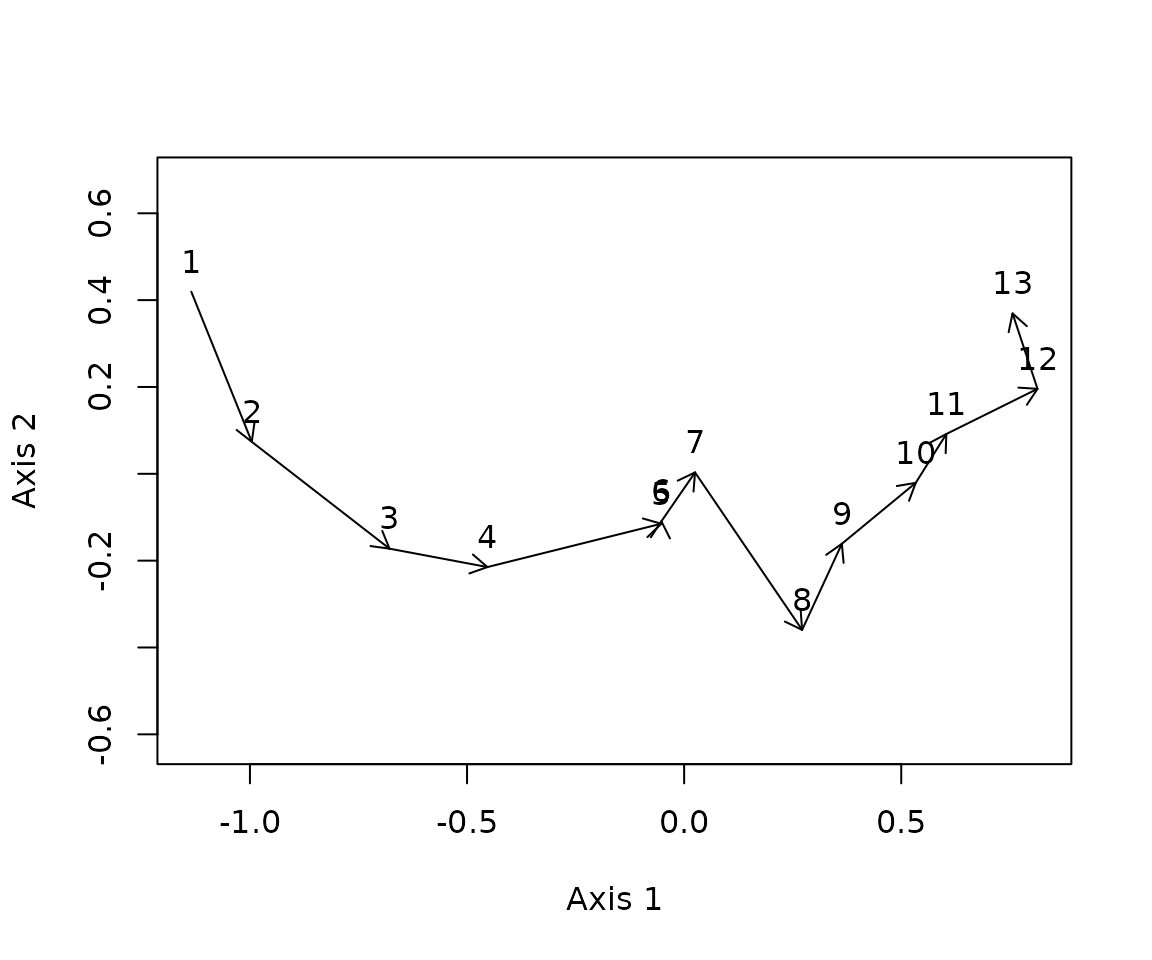
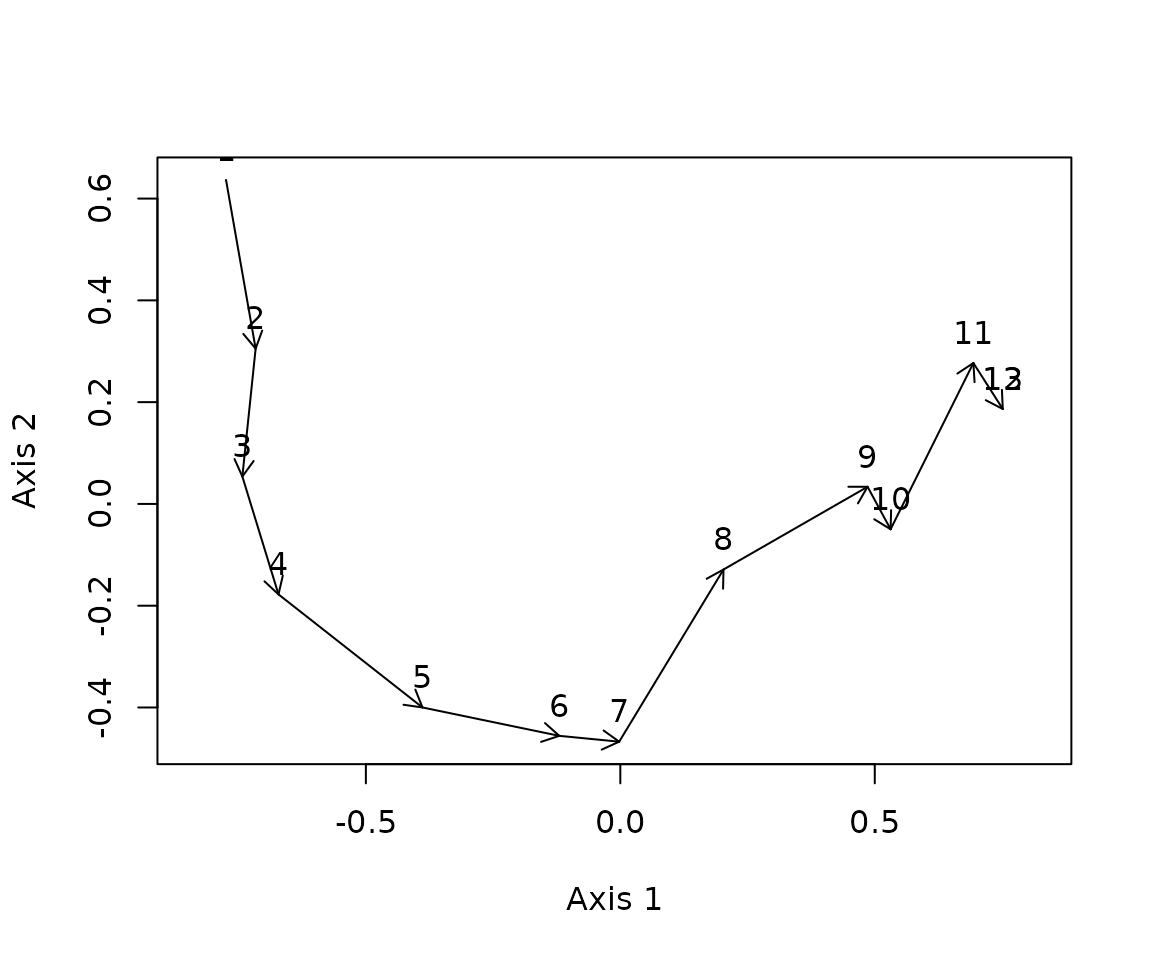
Built site for ecotraj: 0.1.0@

diff --git a/articles/Transformation.html b/articles/Transformation.html
@@ -259,28 +259,36 @@ trajectories, but has problems when measuring angular properties, as we
 will see.</p>
 <div class="sourceCode" id="cb33"><pre class="downlit sourceCode r">
 <code class="sourceCode R"><span><span class="va">pcoa</span><span class="op">&lt;-</span><span class="fu"><a href="../reference/trajectoryplots.html">trajectoryPCoA</a></span><span class="op">(</span><span class="va">D</span>, <span class="va">sites</span>, <span class="va">surveys</span>, selection<span class="op">=</span><span class="fl">1</span>,length<span class="op">=</span><span class="fl">0.1</span>, axes<span class="op">=</span><span class="fu"><a href="https://rdrr.io/r/base/c.html" class="external-link">c</a></span><span class="op">(</span><span class="fl">1</span>,<span class="fl">2</span><span class="op">)</span>, survey.labels <span class="op">=</span> <span class="cn">T</span><span class="op">)</span></span></code></pre></div>
+<pre><code><span><span class="co">## Warning in cmdscale(D2, eig = TRUE, add = TRUE, k = nrow(as.matrix(D2)) - :</span></span>
+<span><span class="co">## only 11 of the first 12 eigenvalues are &gt; 0</span></span></code></pre>
+<pre><code><span><span class="co">## Warning in arrows(x[niini], y[niini], x[nifin], y[nifin], ...): zero-length</span></span>
+<span><span class="co">## arrow is of indeterminate angle and so skipped</span></span></code></pre>
 <p><img src="Transformation_files/figure-html/unnamed-chunk-14-1.png" width="576" style="display: block; margin: auto;"></p>
-<div class="sourceCode" id="cb34"><pre class="downlit sourceCode r">
+<div class="sourceCode" id="cb36"><pre class="downlit sourceCode r">
 <code class="sourceCode R"><span><span class="va">pcoaD</span> <span class="op">=</span> <span class="fu"><a href="https://rdrr.io/r/stats/dist.html" class="external-link">dist</a></span><span class="op">(</span><span class="va">pcoa</span><span class="op">$</span><span class="va">points</span><span class="op">)</span></span></code></pre></div>
 <p>The trajectory has some twists derived from stochasticity in death
 and recruitment. Let’s now look at the square root of the Bray-Curtis
 dissimilarity:</p>
-<div class="sourceCode" id="cb35"><pre class="downlit sourceCode r">
+<div class="sourceCode" id="cb37"><pre class="downlit sourceCode r">
 <code class="sourceCode R"><span><span class="va">sqrtD</span> <span class="op">=</span> <span class="fu"><a href="https://rdrr.io/r/base/MathFun.html" class="external-link">sqrt</a></span><span class="op">(</span><span class="va">D</span><span class="op">)</span></span>
 <span><span class="va">pcoaSqrt</span> <span class="op">=</span> <span class="fu"><a href="../reference/trajectoryplots.html">trajectoryPCoA</a></span><span class="op">(</span><span class="va">sqrtD</span>, <span class="va">sites</span>, <span class="va">surveys</span>, selection<span class="op">=</span><span class="fl">1</span>,length<span class="op">=</span><span class="fl">0.1</span>, axes<span class="op">=</span><span class="fu"><a href="https://rdrr.io/r/base/c.html" class="external-link">c</a></span><span class="op">(</span><span class="fl">1</span>,<span class="fl">2</span><span class="op">)</span>, survey.labels <span class="op">=</span> <span class="cn">T</span><span class="op">)</span></span></code></pre></div>
+<pre><code><span><span class="co">## Warning in arrows(x[niini], y[niini], x[nifin], y[nifin], ...): zero-length</span></span>
+<span><span class="co">## arrow is of indeterminate angle and so skipped</span></span></code></pre>
 <p><img src="Transformation_files/figure-html/unnamed-chunk-15-1.png" width="576" style="display: block; margin: auto;"></p>
 <p>Finally, we also transform dissimilarities using metric
 multidimensional scaling (mMDS), provided by package
 <code>smacof</code>:</p>
-<div class="sourceCode" id="cb36"><pre class="downlit sourceCode r">
+<div class="sourceCode" id="cb39"><pre class="downlit sourceCode r">
 <code class="sourceCode R"><span><span class="va">res</span> <span class="op">&lt;-</span> <span class="fu">smacof</span><span class="fu">::</span><span class="fu"><a href="https://rdrr.io/pkg/smacof/man/smacofSym.html" class="external-link">mds</a></span><span class="op">(</span><span class="va">D</span>, ndim <span class="op">=</span> <span class="fu"><a href="https://rdrr.io/r/base/length.html" class="external-link">length</a></span><span class="op">(</span><span class="va">Sj</span><span class="op">)</span><span class="op">-</span><span class="fl">1</span>, type <span class="op">=</span> <span class="st">"interval"</span><span class="op">)</span></span>
 <span><span class="va">mmdsD</span> <span class="op">&lt;-</span> <span class="fu"><a href="https://rdrr.io/r/stats/dist.html" class="external-link">dist</a></span><span class="op">(</span><span class="va">res</span><span class="op">$</span><span class="va">conf</span><span class="op">)</span></span>
 <span><span class="fu"><a href="../reference/trajectoryplots.html">trajectoryPlot</a></span><span class="op">(</span><span class="va">res</span><span class="op">$</span><span class="va">conf</span>, <span class="va">sites</span>, <span class="va">surveys</span>, selection<span class="op">=</span><span class="fl">1</span>,length<span class="op">=</span><span class="fl">0.1</span>, axes<span class="op">=</span><span class="fu"><a href="https://rdrr.io/r/base/c.html" class="external-link">c</a></span><span class="op">(</span><span class="fl">1</span>,<span class="fl">2</span><span class="op">)</span>, survey.labels <span class="op">=</span> <span class="cn">T</span><span class="op">)</span></span></code></pre></div>
+<pre><code><span><span class="co">## Warning in arrows(xp[niini], yp[niini], xp[nifin], yp[nifin], ...): zero-length</span></span>
+<span><span class="co">## arrow is of indeterminate angle and so skipped</span></span></code></pre>
 <p><img src="Transformation_files/figure-html/unnamed-chunk-16-1.png" width="576" style="display: block; margin: auto;"></p>
 <p>While the three plots look different, the differences are not
 striking (besides rotation issues). We can compare the stress of the
 global solutions:</p>
-<div class="sourceCode" id="cb37"><pre class="downlit sourceCode r">
+<div class="sourceCode" id="cb41"><pre class="downlit sourceCode r">
 <code class="sourceCode R"><span><span class="fu">smacof</span><span class="fu">::</span><span class="fu"><a href="https://rdrr.io/pkg/smacof/man/stress0.html" class="external-link">stress0</a></span><span class="op">(</span><span class="va">D</span>,<span class="va">pcoaSqrt</span><span class="op">$</span><span class="va">points</span>, type<span class="op">=</span><span class="st">"interval"</span><span class="op">)</span></span></code></pre></div>
 <pre><code><span><span class="co">## </span></span>
 <span><span class="co">## Call:</span></span>
@@ -288,9 +296,9 @@ global solutions:</p>
 <span><span class="co">## </span></span>
 <span><span class="co">## Model: Symmetric SMACOF </span></span>
 <span><span class="co">## Number of objects: 13 </span></span>
-<span><span class="co">## Stress-1 value: 0.058 </span></span>
+<span><span class="co">## Stress-1 value: 0.062 </span></span>
 <span><span class="co">## Number of iterations: 0</span></span></code></pre>
-<div class="sourceCode" id="cb39"><pre class="downlit sourceCode r">
+<div class="sourceCode" id="cb43"><pre class="downlit sourceCode r">
 <code class="sourceCode R"><span><span class="fu">smacof</span><span class="fu">::</span><span class="fu"><a href="https://rdrr.io/pkg/smacof/man/stress0.html" class="external-link">stress0</a></span><span class="op">(</span><span class="va">D</span>,<span class="va">pcoa</span><span class="op">$</span><span class="va">points</span>, type<span class="op">=</span><span class="st">"interval"</span><span class="op">)</span></span></code></pre></div>
 <pre><code><span><span class="co">## </span></span>
 <span><span class="co">## Call:</span></span>
@@ -300,7 +308,7 @@ global solutions:</p>
 <span><span class="co">## Number of objects: 13 </span></span>
 <span><span class="co">## Stress-1 value: 0.011 </span></span>
 <span><span class="co">## Number of iterations: 0</span></span></code></pre>
-<div class="sourceCode" id="cb41"><pre class="downlit sourceCode r">
+<div class="sourceCode" id="cb45"><pre class="downlit sourceCode r">
 <code class="sourceCode R"><span><span class="fu">smacof</span><span class="fu">::</span><span class="fu"><a href="https://rdrr.io/pkg/smacof/man/stress0.html" class="external-link">stress0</a></span><span class="op">(</span><span class="va">D</span>,<span class="va">res</span><span class="op">$</span><span class="va">conf</span>, type<span class="op">=</span><span class="st">"interval"</span><span class="op">)</span></span></code></pre></div>
 <pre><code><span><span class="co">## </span></span>
 <span><span class="co">## Call:</span></span>
@@ -308,13 +316,13 @@ global solutions:</p>
 <span><span class="co">## </span></span>
 <span><span class="co">## Model: Symmetric SMACOF </span></span>
 <span><span class="co">## Number of objects: 13 </span></span>
-<span><span class="co">## Stress-1 value: 0.013 </span></span>
+<span><span class="co">## Stress-1 value: 0.02 </span></span>
 <span><span class="co">## Number of iterations: 0</span></span></code></pre>
 <p>Where we see that the square root leads to the strongest alteration
 of original dissimilarities. If we calculate geometric properties we are
 not limited by ordination plots and we can take into account all
 dimensions.</p>
-<div class="sourceCode" id="cb43"><pre class="downlit sourceCode r">
+<div class="sourceCode" id="cb47"><pre class="downlit sourceCode r">
 <code class="sourceCode R"><span><span class="va">anglesD</span> <span class="op">=</span> <span class="fu"><a href="../reference/trajectorymetrics.html">trajectoryAngles</a></span><span class="op">(</span><span class="va">D</span>,<span class="va">sites</span>,<span class="va">surveys</span><span class="op">)</span></span>
 <span><span class="va">anglesSqrtD</span> <span class="op">=</span> <span class="fu"><a href="../reference/trajectorymetrics.html">trajectoryAngles</a></span><span class="op">(</span><span class="va">sqrtD</span>,<span class="va">sites</span>,<span class="va">surveys</span><span class="op">)</span></span>
 <span><span class="va">anglesPcoaD</span> <span class="op">=</span> <span class="fu"><a href="../reference/trajectorymetrics.html">trajectoryAngles</a></span><span class="op">(</span><span class="va">pcoaD</span>,<span class="va">sites</span>,<span class="va">surveys</span><span class="op">)</span></span>
@@ -323,16 +331,16 @@ dimensions.</p>
 <span><span class="va">df</span><span class="op">&lt;-</span><span class="fu"><a href="https://rdrr.io/r/base/as.data.frame.html" class="external-link">as.data.frame</a></span><span class="op">(</span><span class="fu"><a href="https://rdrr.io/r/base/cbind.html" class="external-link">rbind</a></span><span class="op">(</span><span class="va">anglesD</span>, <span class="va">anglesSqrtD</span>, <span class="va">anglesPcoaD</span>, <span class="va">anglesmmdsD</span><span class="op">)</span><span class="op">)</span></span>
 <span><span class="fu"><a href="https://rdrr.io/r/base/row.names.html" class="external-link">row.names</a></span><span class="op">(</span><span class="va">df</span><span class="op">)</span><span class="op">&lt;-</span><span class="fu"><a href="https://rdrr.io/r/base/c.html" class="external-link">c</a></span><span class="op">(</span><span class="st">"local"</span>, <span class="st">"global.sqrt"</span>, <span class="st">"global.pcoa"</span>, <span class="st">"global.mmds"</span><span class="op">)</span></span>
 <span><span class="fu"><a href="https://rdrr.io/r/base/Round.html" class="external-link">round</a></span><span class="op">(</span><span class="va">df</span>,<span class="fl">2</span><span class="op">)</span></span></code></pre></div>
-<pre><code><span><span class="co">##             S1-S2 S2-S3 S3-S4  S4-S5  S5-S6  S6-S7  S7-S8 S8-S9 S9-S10 S10-S11</span></span>
-<span><span class="co">## local        0.00  0.00  0.00  97.18   0.00  97.18 104.48  0.00   0.00    0.00</span></span>
-<span><span class="co">## global.sqrt 90.00 90.00 90.00 104.48  90.00 104.48 110.70 90.00  90.00   90.00</span></span>
-<span><span class="co">## global.pcoa 85.17 89.33 89.33 108.01 105.85 108.01 111.89 95.78 101.04  101.04</span></span>
-<span><span class="co">## global.mmds 53.73 41.46 47.77 101.73  78.63 103.74 111.17 64.23  64.91   60.47</span></span>
-<span><span class="co">##             S11-S12  mean   sd  rho</span></span>
-<span><span class="co">## local          0.00 21.49 0.79 0.73</span></span>
-<span><span class="co">## global.sqrt   90.00 94.49 0.13 0.99</span></span>
-<span><span class="co">## global.pcoa   92.08 98.87 0.15 0.99</span></span>
-<span><span class="co">## global.mmds   60.15 71.28 0.40 0.92</span></span></code></pre>
+<pre><code><span><span class="co">##             S1-S2 S2-S3 S3-S4 S4-S5  S5-S6  S6-S7 S7-S8  S8-S9 S9-S10 S10-S11</span></span>
+<span><span class="co">## local        0.00  0.00  0.00  0.00   0.00  97.18  0.00 109.47 109.47  109.47</span></span>
+<span><span class="co">## global.sqrt 90.00 90.00 90.00 90.00  90.00 104.48 90.00 114.09 114.09  114.09</span></span>
+<span><span class="co">## global.pcoa 92.63 96.29 92.63 92.63 101.46 108.18 85.79 115.36 115.36  115.36</span></span>
+<span><span class="co">## global.mmds 63.72 64.79 56.15 39.69  64.36 100.57 63.24 116.34 109.88  112.95</span></span>
+<span><span class="co">##             S11-S12   mean   sd  rho</span></span>
+<span><span class="co">## local           NaN  38.09 0.98 0.62</span></span>
+<span><span class="co">## global.sqrt     NaN  98.64 0.19 0.98</span></span>
+<span><span class="co">## global.pcoa  109.44 102.29 0.18 0.98</span></span>
+<span><span class="co">## global.mmds   90.00  80.04 0.45 0.91</span></span></code></pre>
 <p>The first call to <code>trajectoryAngles</code> with matrix
 <code>D</code> represents the default strategy of transforming triangles
 locally, which involves the weakest transformation of all and can be
@@ -343,22 +351,22 @@ similar to those of the local transformation strategy.</p>
 <p>If we inspect the overall directionality, the global solution of
 metric MDS provides a value that is again closer to that of local
 transformation, compared to PCoA and the square root:</p>
-<div class="sourceCode" id="cb45"><pre class="downlit sourceCode r">
+<div class="sourceCode" id="cb49"><pre class="downlit sourceCode r">
 <code class="sourceCode R"><span><span class="fu"><a href="../reference/trajectorymetrics.html">trajectoryDirectionality</a></span><span class="op">(</span><span class="va">D</span>,<span class="va">sites</span>,<span class="va">surveys</span><span class="op">)</span></span></code></pre></div>
 <pre><code><span><span class="co">##         1 </span></span>
-<span><span class="co">## 0.7765946</span></span></code></pre>
-<div class="sourceCode" id="cb47"><pre class="downlit sourceCode r">
+<span><span class="co">## 0.6695243</span></span></code></pre>
+<div class="sourceCode" id="cb51"><pre class="downlit sourceCode r">
 <code class="sourceCode R"><span><span class="fu"><a href="../reference/trajectorymetrics.html">trajectoryDirectionality</a></span><span class="op">(</span><span class="va">sqrtD</span>,<span class="va">sites</span>,<span class="va">surveys</span><span class="op">)</span></span></code></pre></div>
-<pre><code><span><span class="co">##        1 </span></span>
-<span><span class="co">## 0.471528</span></span></code></pre>
-<div class="sourceCode" id="cb49"><pre class="downlit sourceCode r">
+<pre><code><span><span class="co">##         1 </span></span>
+<span><span class="co">## 0.4538697</span></span></code></pre>
+<div class="sourceCode" id="cb53"><pre class="downlit sourceCode r">
 <code class="sourceCode R"><span><span class="fu"><a href="../reference/trajectorymetrics.html">trajectoryDirectionality</a></span><span class="op">(</span><span class="va">pcoaD</span>,<span class="va">sites</span>,<span class="va">surveys</span><span class="op">)</span></span></code></pre></div>
 <pre><code><span><span class="co">##         1 </span></span>
-<span><span class="co">## 0.5317401</span></span></code></pre>
-<div class="sourceCode" id="cb51"><pre class="downlit sourceCode r">
+<span><span class="co">## 0.4914801</span></span></code></pre>
+<div class="sourceCode" id="cb55"><pre class="downlit sourceCode r">
 <code class="sourceCode R"><span><span class="fu"><a href="../reference/trajectorymetrics.html">trajectoryDirectionality</a></span><span class="op">(</span><span class="va">mmdsD</span>,<span class="va">sites</span>,<span class="va">surveys</span><span class="op">)</span></span></code></pre></div>
 <pre><code><span><span class="co">##         1 </span></span>
-<span><span class="co">## 0.6488838</span></span></code></pre>
+<span><span class="co">## 0.5740902</span></span></code></pre>
 </div>
 <div class="section level2">
 <h2 id="conclusions">4. Conclusions<a class="anchor" aria-label="anchor" href="#conclusions"></a>

diff --git a/articles/IntroductionEQA.html b/articles/IntroductionEQA.html
@@ -166,28 +166,28 @@ of ecosystems by using a set of reference stations.</p>
 <span><span class="va">glomel_assess</span></span></code></pre></div>
 <pre><code><span><span class="co">##    Observation Envelope          Q     Lower_Q    Upper_Q</span></span>
 <span><span class="co">## 1           1A     TRUE 1.00000000 0.162592883 1.00000000</span></span>
-<span><span class="co">## 2           1B     TRUE 0.76613763 0.056748772 1.00000000</span></span>
-<span><span class="co">## 3           1C     TRUE 0.57229876 0.041834387 1.00000000</span></span>
-<span><span class="co">## 4           5A     TRUE 1.00000000 0.176632710 1.00000000</span></span>
-<span><span class="co">## 5           13     TRUE 0.81917760 0.097039237 1.00000000</span></span>
-<span><span class="co">## 6            2    FALSE 0.58055183 0.043208754 1.00000000</span></span>
-<span><span class="co">## 7           3A    FALSE 0.43311585 0.034040474 0.61617669</span></span>
+<span><span class="co">## 2           1B     TRUE 0.76613763 0.057035759 1.00000000</span></span>
+<span><span class="co">## 3           1C     TRUE 0.57229876 0.039662609 1.00000000</span></span>
+<span><span class="co">## 4           5A     TRUE 1.00000000 0.170913147 1.00000000</span></span>
+<span><span class="co">## 5           13     TRUE 0.81917760 0.091873989 1.00000000</span></span>
+<span><span class="co">## 6            2    FALSE 0.58055183 0.043284848 1.00000000</span></span>
+<span><span class="co">## 7           3A    FALSE 0.43311585 0.034040474 0.61630034</span></span>
 <span><span class="co">## 8           3B    FALSE 1.00000000 0.358032480 1.00000000</span></span>
-<span><span class="co">## 9           3C    FALSE 0.45442188 0.040036050 0.62790907</span></span>
-<span><span class="co">## 10          5B    FALSE 0.33022033 0.038621811 0.62036822</span></span>
-<span><span class="co">## 11          6A    FALSE 0.05927157 0.006617790 0.08173361</span></span>
-<span><span class="co">## 12          6C    FALSE 0.38424518 0.030225040 0.76572056</span></span>
-<span><span class="co">## 13          6D    FALSE 0.04056616 0.005418747 0.05697051</span></span>
-<span><span class="co">## 14          7A    FALSE 0.06641490 0.008891153 0.08691072</span></span>
-<span><span class="co">## 15          8A    FALSE 0.18922894 0.035567696 0.22798561</span></span>
-<span><span class="co">## 16          8B    FALSE 0.14419258 0.019227214 0.19135464</span></span>
-<span><span class="co">## 17          8C    FALSE 0.02968524 0.003704020 0.03978266</span></span>
-<span><span class="co">## 18           9    FALSE 0.12972756 0.016771286 0.16996479</span></span>
-<span><span class="co">## 19          10    FALSE 0.76985523 0.174490336 0.84382321</span></span>
-<span><span class="co">## 20          11    FALSE 0.57670446 0.043944021 0.81593809</span></span>
-<span><span class="co">## 21          12    FALSE 1.00000000 0.362145372 1.00000000</span></span>
-<span><span class="co">## 22         14A    FALSE 0.65528979 0.048471495 0.90334578</span></span>
-<span><span class="co">## 23         14B    FALSE 0.13022565 0.015769028 0.17358854</span></span></code></pre>
+<span><span class="co">## 9           3C    FALSE 0.45442188 0.040036050 0.64199469</span></span>
+<span><span class="co">## 10          5B    FALSE 0.33022033 0.036681922 0.62036822</span></span>
+<span><span class="co">## 11          6A    FALSE 0.05927157 0.005494313 0.08223300</span></span>
+<span><span class="co">## 12          6C    FALSE 0.38424518 0.027829702 0.79334820</span></span>
+<span><span class="co">## 13          6D    FALSE 0.04056616 0.003253337 0.06036804</span></span>
+<span><span class="co">## 14          7A    FALSE 0.06641490 0.005833534 0.09414612</span></span>
+<span><span class="co">## 15          8A    FALSE 0.18922894 0.020354861 0.24078510</span></span>
+<span><span class="co">## 16          8B    FALSE 0.14419258 0.012480635 0.19135464</span></span>
+<span><span class="co">## 17          8C    FALSE 0.02968524 0.002419814 0.04428647</span></span>
+<span><span class="co">## 18           9    FALSE 0.12972756 0.011057954 0.18503995</span></span>
+<span><span class="co">## 19          10    FALSE 0.76985523 0.076425434 0.83602662</span></span>
+<span><span class="co">## 20          11    FALSE 0.57670446 0.043944021 0.81642354</span></span>
+<span><span class="co">## 21          12    FALSE 1.00000000 0.225911044 1.00000000</span></span>
+<span><span class="co">## 22         14A    FALSE 0.65528979 0.052628232 0.92615016</span></span>
+<span><span class="co">## 23         14B    FALSE 0.13022565 0.010438686 0.19355284</span></span></code></pre>
 </div>
   </div>
 

diff --git a/reference/index.html b/reference/index.html
@@ -77,14 +77,6 @@
         </td>
         <td><p>Metrics for Ecological Trajectory Analysis</p></td>
       </tr></tbody><tbody><tr><th colspan="2">
-          <h2 id="envelopes">Envelopes <a href="#envelopes" class="anchor" aria-hidden="true"></a></h2>
-          <p class="section-desc"></p><p>Set of functions to determine the membership to state/trajectory envelopes</p>
-        </th>
-      </tr></tbody><tbody><tr><td>
-          <p><code><a href="envelope.html">trajectoryEnvelopeVariability()</a></code> <code><a href="envelope.html">stateEnvelopeVariability()</a></code> <code><a href="envelope.html">compareToTrajectoryEnvelope()</a></code> <code><a href="envelope.html">compareToStateEnvelope()</a></code> </p>
-        </td>
-        <td><p>Reference envelopes</p></td>
-      </tr></tbody><tbody><tr><th colspan="2">
           <h2 id="trajectory-plots">Trajectory plots <a href="#trajectory-plots" class="anchor" aria-hidden="true"></a></h2>
           <p class="section-desc"></p><p>Set of plotting functions</p>
         </th>
@@ -92,6 +84,14 @@
           <p><code><a href="trajectoryplots.html">trajectoryPCoA()</a></code> <code><a href="trajectoryplots.html">trajectoryPlot()</a></code> </p>
         </td>
         <td><p>Trajectory plots</p></td>
+      </tr></tbody><tbody><tr><th colspan="2">
+          <h2 id="ecological-quality-assessment">Ecological Quality Assessment <a href="#ecological-quality-assessment" class="anchor" aria-hidden="true"></a></h2>
+          <p class="section-desc"></p><p>Set of functions to determine the membership to state/trajectory envelopes</p>
+        </th>
+      </tr></tbody><tbody><tr><td>
+          <p><code><a href="envelope.html">trajectoryEnvelopeVariability()</a></code> <code><a href="envelope.html">stateEnvelopeVariability()</a></code> <code><a href="envelope.html">compareToTrajectoryEnvelope()</a></code> <code><a href="envelope.html">compareToStateEnvelope()</a></code> </p>
+        </td>
+        <td><p>Reference envelopes</p></td>
       </tr></tbody><tbody><tr><th colspan="2">
           <h2 id="utility-functions">Utility functions <a href="#utility-functions" class="anchor" aria-hidden="true"></a></h2>
           <p class="section-desc"></p><p>Utility functions for trajectory analysis</p>
